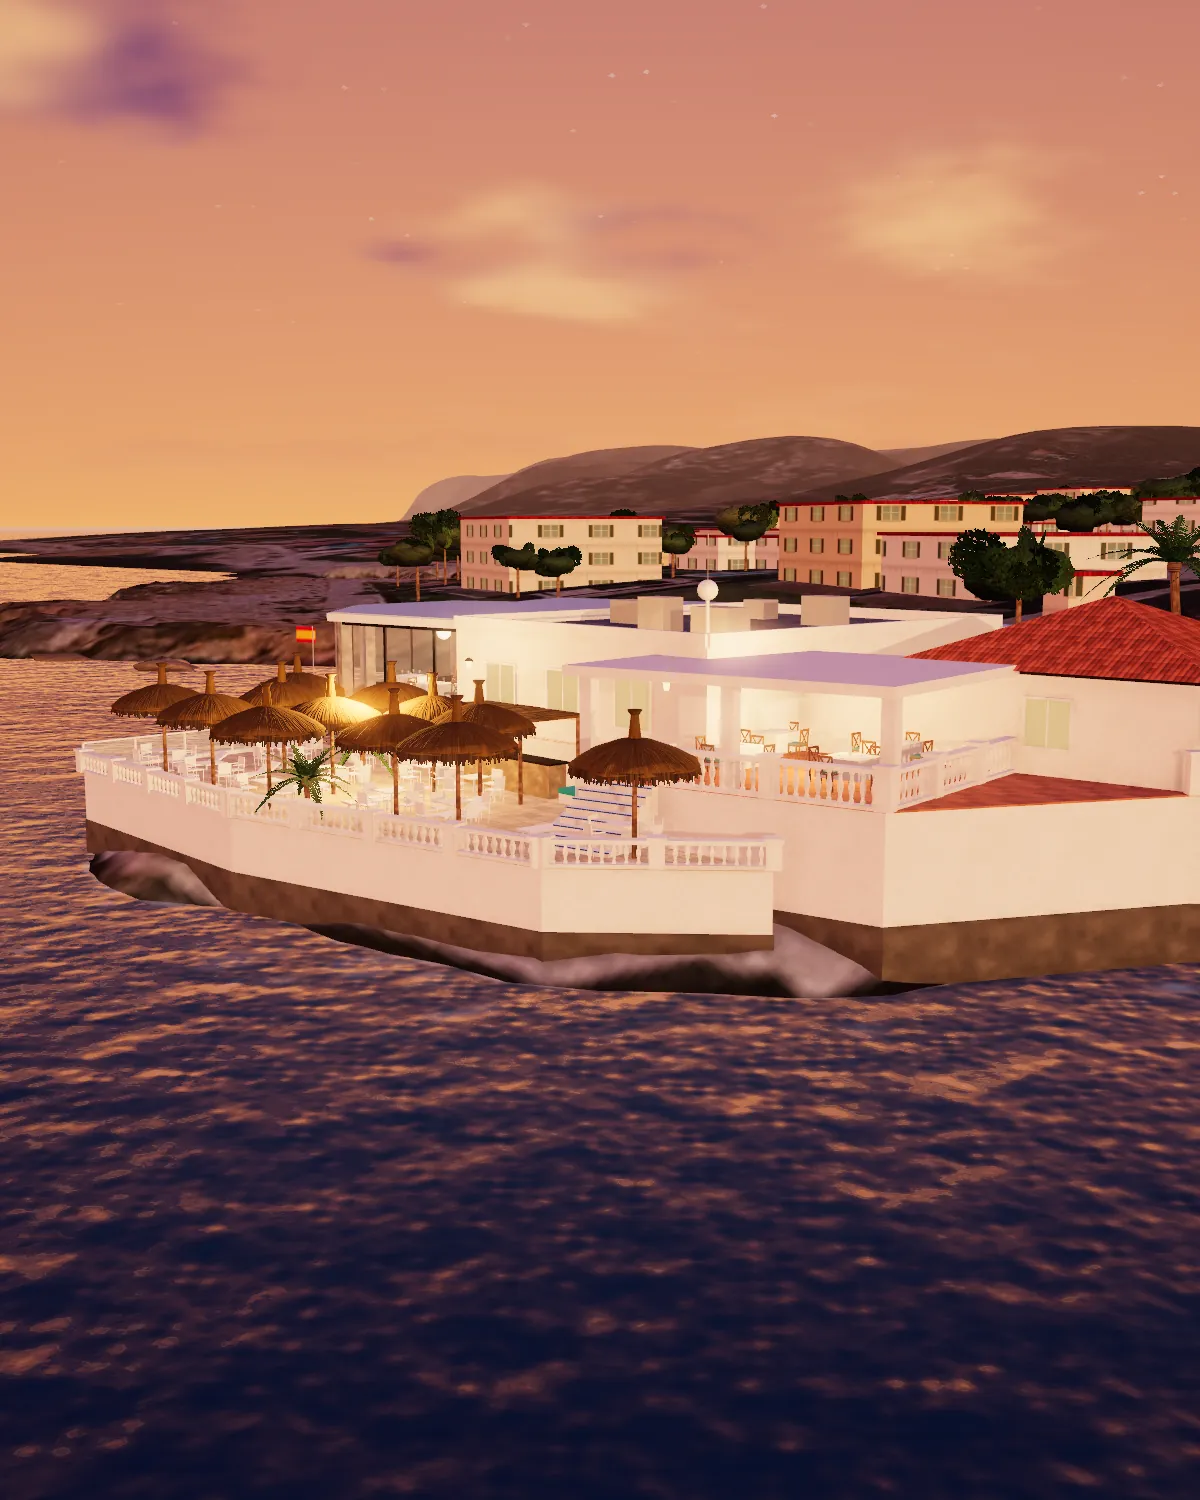
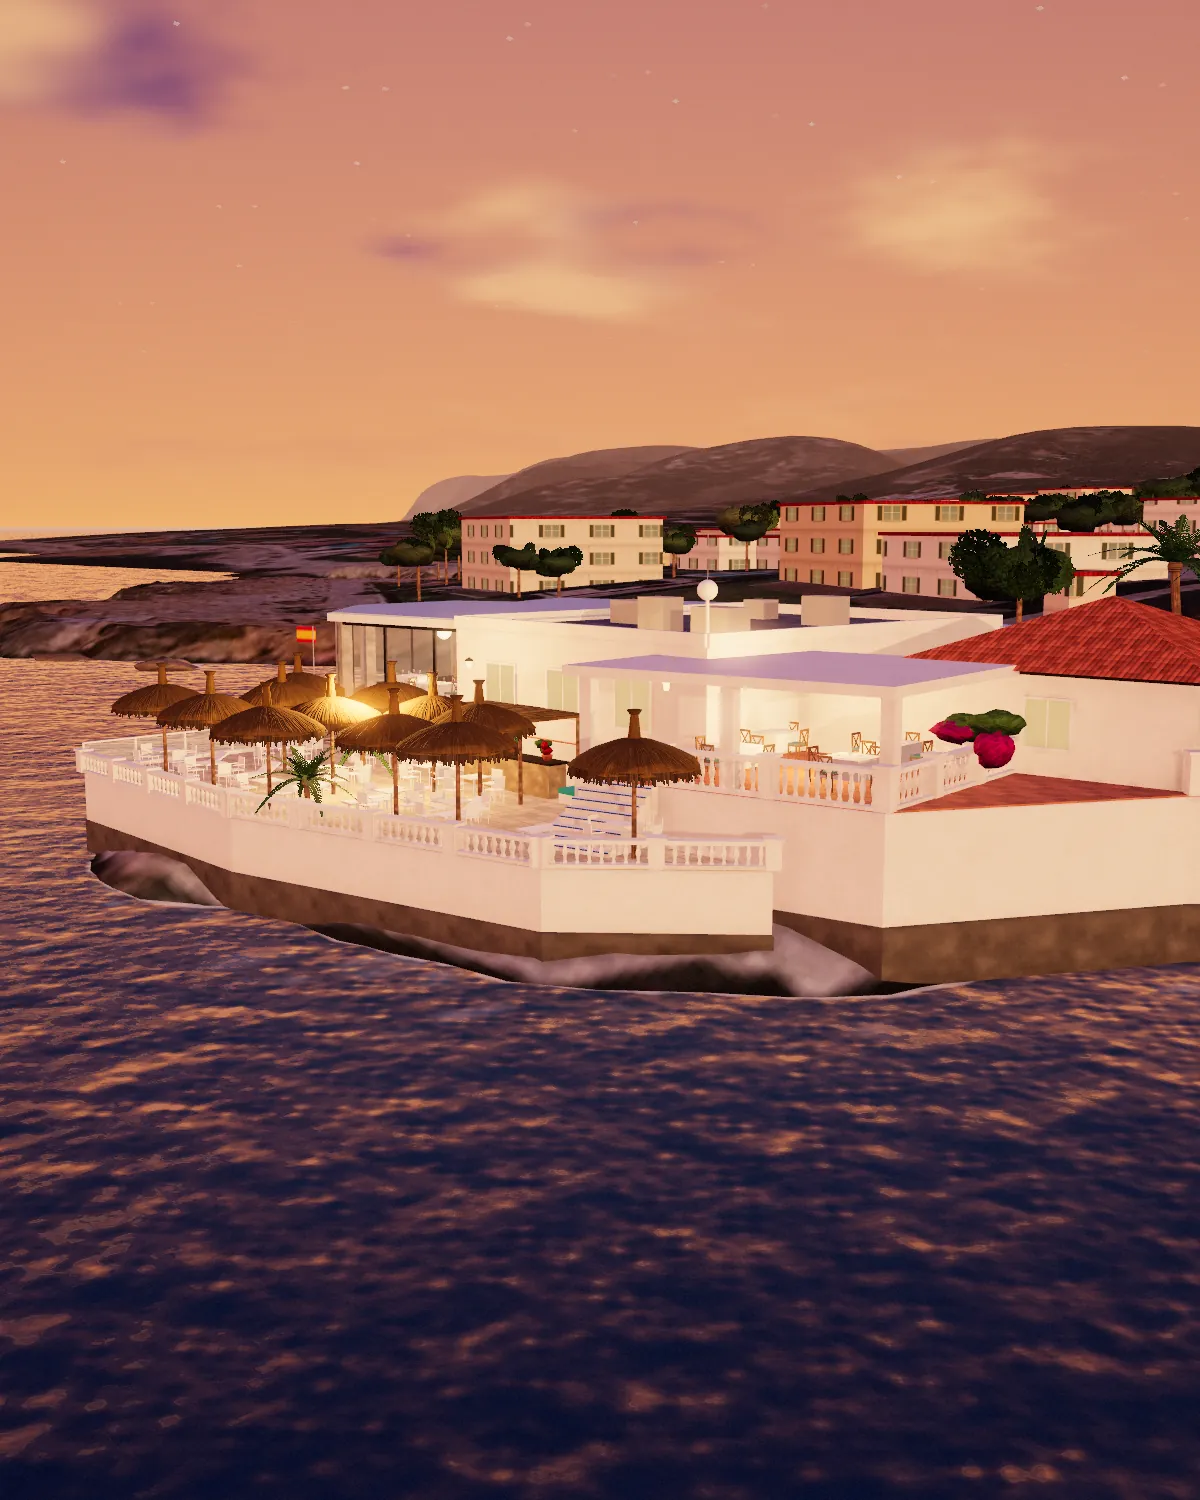
Add a realism pass to the El Pegolí 3D view
- Camera optics: depth of field on close viewpoints (table, dining room,
  terrace), fine film grain and a warm/cool photographic grade
- Weathered whitewash: damp blotches, drip streaks and a sea-splashed base
- Small bevels on the main volumes so edges catch the light
- Bougainvillea on the walls and geranium pots on the bar
- Regenerated cover image and screenshots

Claude-Session: https://claude.ai/code/session_01E5HN136emrn6kgKPQGTpSe

diff --git a/el-pegoli/lib/scene3d.js b/el-pegoli/lib/scene3d.js
@@ -90,12 +90,12 @@
   var VIEWS = {
     hero:    { pos: [-38, 12.5, -46], target: [7, 4, -7],     fov: 40, wide: true },
     llegada: { pos: [-8, 5.5, -50],   target: [8, 4.6, -9],   fov: 40, wide: true },
-    mesa:    { pos: [19.9, 5.5, 0.1], target: [18.3, 5.0, -1.8], fov: 46, look: true },
-    ocaso:   { pos: [20.7, 4.6, -17.7], target: [-30, 4.2, -21], fov: 58, look: true },
+    mesa:    { pos: [19.9, 5.5, 0.1], target: [18.3, 5.0, -1.8], fov: 46, look: true, focus: 2.4, ap: 0.95 },
+    ocaso:   { pos: [20.7, 4.6, -17.7], target: [-30, 4.2, -21], fov: 58, look: true, focus: 8, ap: 0.2 },
     general: { pos: [60, 27, -56],    target: [5, 3, -6],     fov: 40, wide: true },
     mar:     { pos: [9, 3.4, -66],    target: [8, 5, -8],     fov: 36, wide: true },
-    terraza: { pos: [0.9, 4.3, -16.3], target: [16, 3.8, -13.0], fov: 62, look: true },
-    comedor: { pos: [17.2, 5.75, 0.9], target: [16.8, 5.3, -20], fov: 62, look: true },
+    terraza: { pos: [0.9, 4.3, -16.3], target: [16, 3.8, -13.0], fov: 62, look: true, focus: 7, ap: 0.22 },
+    comedor: { pos: [17.2, 5.75, 0.9], target: [16.8, 5.3, -20], fov: 62, look: true, focus: 5, ap: 0.3 },
     cala:    { pos: [53, 3.2, 27],    target: [27, 3.8, 6],   fov: 40 },
     denia:   { pos: [-2.4, 4.5, -14.5], target: [-2610, 60, -951], fov: 24, look: true }
   };
@@ -495,6 +495,24 @@
     M.sueloInt.envMapIntensity = 0.5;
     M.mantel.envMapIntensity = 0.55;
     M.muroAzul = pbr({ color: 0xe6eff4, map: T.cal, normalMap: T.calN, normalScale: ns(0.8), roughness: 0.96 });
+    function weather(mat, amount) {
+      mat.onBeforeCompile = function (sh) {
+        sh.uniforms.uStain = { value: T.rock };
+        sh.vertexShader = "varying vec3 vWPos;\n" + sh.vertexShader.replace("#include <project_vertex>",
+          "#include <project_vertex>\n  #ifdef USE_INSTANCING\n  vWPos = (modelMatrix * instanceMatrix * vec4(transformed, 1.0)).xyz;\n  #else\n  vWPos = (modelMatrix * vec4(transformed, 1.0)).xyz;\n  #endif");
+        sh.fragmentShader = "varying vec3 vWPos; uniform sampler2D uStain;\n" + sh.fragmentShader.replace("#include <map_fragment>",
+          "#include <map_fragment>\n" +
+          "  float wA = texture2D(uStain, vWPos.xz * 0.045 + vec2(vWPos.y * 0.021, 0.0)).r;\n" +
+          "  float wB = texture2D(uStain, vec2((vWPos.x + vWPos.z) * 0.55, vWPos.y * 0.035)).r;\n" +
+          "  float low = 1.0 - smoothstep(0.2, 2.0, vWPos.y);\n" +
+          "  float dirt = (1.0 - wA) * 0.2 + smoothstep(0.6, 0.2, wB) * 0.16 + low * 0.3;\n" +
+          "  diffuseColor.rgb *= mix(vec3(1.0), vec3(0.78, 0.74, 0.66), clamp(dirt * " + amount.toFixed(2) + ", 0.0, 1.0));");
+      };
+      mat.customProgramCacheKey = function () { return "cal" + amount; };
+    }
+    weather(M.cal, 1.35);
+    weather(M.muroAzul, 1.5);
+    weather(M.calLisa, 0.7);
 
     function mesh(geo, mat, x, y, z, parent, opts) {
       var m = new THREE.Mesh(geo, mat);
@@ -896,9 +914,13 @@
     }
     // prisma vertical sobre un polígono en planta, con UV en metros / tile
     function prismGeo(poly, y0, y1, tile) {
-      var g = new THREE.ExtrudeGeometry(shapeOf(poly), { depth: y1 - y0, bevelEnabled: false });
+      // un canto vivo perfecto delata el render: los volúmenes grandes llevan un pequeño bisel que recoge la luz
+      var bv = y1 - y0 > 0.6 ? 0.035 : 0;
+      var g = new THREE.ExtrudeGeometry(shapeOf(poly), bv
+        ? { depth: y1 - y0 - bv * 2, bevelEnabled: true, bevelThickness: bv, bevelSize: bv, bevelOffset: -bv, bevelSegments: 1 }
+        : { depth: y1 - y0, bevelEnabled: false });
       g.rotateX(-Math.PI / 2);
-      g.translate(0, y0, 0);
+      g.translate(0, y0 + bv, 0);
       var uv = g.attributes.uv, t = tile || 2.5;
       for (var i = 0; i < uv.count; i++) uv.setXY(i, uv.getX(i) / t, uv.getY(i) / t);
       return g;
@@ -1427,6 +1449,29 @@
       }
     })();
 
+    // buganvilla trepando por los muros y macetas con geranios
+    (function () {
+      var lobe = blob(2, 0.95, 2.4, 0.85, 0, 0.5);
+      var magenta = pbr({ color: 0xc4267c, map: T.fol, normalMap: T.folN, normalScale: ns(1.8), vertexColors: true, roughness: 0.85 });
+      var rojo = pbr({ color: 0xc8322a, map: T.fol, normalMap: T.folN, normalScale: ns(1.8), vertexColors: true, roughness: 0.85 });
+      function mata(x, y, z, sz, mat) {
+        for (var i = 0; i < 5; i++) {
+          var m = mesh(lobe, i % 2 === 0 ? M.verde : mat, x + (hash2(x + i, z) - 0.5) * sz * 1.5, y + (hash2(z, x + i) - 0.3) * sz * 1.1, z + (hash2(x - i, z + i) - 0.5) * sz * 0.7, resto);
+          m.scale.set(sz * (0.38 + hash2(i, x) * 0.3), sz * (0.3 + hash2(i, z) * 0.25), sz * (0.3 + hash2(x, i) * 0.25));
+          m.rotation.y = i * 1.9;
+        }
+      }
+      mata(-6.6, Y_UP + 1.7, 4.75, 1.5, magenta);   // pabellón de teja, hacia la calle
+      mata(5.1, Y_UP + 1.6, 9.1, 1.3, magenta);     // junto a la entrada
+      mata(-7.6, Y_UP + 1.4, -7.4, 1.0, magenta);   // costado del porche
+      mata(25.9, 4.9, 2.2, 1.1, magenta);           // sobre el muro de la cala
+      [[6.5, -9.75], [8.2, -9.9], [9.9, -9.75]].forEach(function (q) {
+        var pot = mesh(potGeo, M.barro, q[0], Y_PT + 1.17, q[1], resto);
+        pot.scale.setScalar(0.5);
+        mata(q[0], Y_PT + 1.5, q[1], 0.32, rojo);
+      });
+    })();
+
     /* ================= palmeras ================= */
     var palms = [];
     var palmDepth = new THREE.MeshDepthMaterial({ depthPacking: THREE.RGBADepthPacking, map: T.palma, alphaTest: 0.35 });
@@ -1577,6 +1622,7 @@
     // Dos maneras de mirar: orbitar alrededor del edificio, o girar la mirada desde un punto fijo.
     var camPos = new THREE.Vector3(), camTgt = new THREE.Vector3(), tmpV = new THREE.Vector3();
     var sph = { r: 50, theta: 0, phi: 1 }, goal = { r: 50, theta: 0, phi: 1 };
+    var dof = { f: 10, a: 0 }, dofGoal = { f: 10, a: 0 };
     var look = false, wide = true, fov = 40, fovGoal = 40, viewTween = null, mode = "hero", userTouched = false, scrollP = 0;
     var pointer = { x: 0, y: 0 }, pointerS = { x: 0, y: 0 };
     var offset = { x: 0, y: 0 }, offsetGoal = { x: 0, y: 0 };
@@ -1603,6 +1649,7 @@
       look = !!v.look;
       wide = !!v.wide;
       fov = fovGoal = v.fov;
+      dofGoal.a = v.ap || 0; dofGoal.f = v.focus || 10;
       var d = camPos.clone().sub(camTgt), r = d.length();
       sph.r = goal.r = r;
       sph.theta = goal.theta = Math.atan2(d.x, d.z);
@@ -1655,6 +1702,7 @@
         if (!reduced && !eco) camera.position.y += Math.sin(time * 0.35) * 0.04;
         camera.lookAt(tourTgt);
         fov = lerp(fov, lerp(va.fov, vb.fov, e2), kt);
+        dofGoal.a = lerp(va.ap || 0, vb.ap || 0, e2); dofGoal.f = lerp(va.focus || 10, vb.focus || 10, e2);
         if (tourFrames > 0) tourFrames--;
       } else if (viewTween) {
         viewTween.t = Math.min(1, viewTween.t + dt / viewTween.dur);
@@ -1666,6 +1714,7 @@
         tmpV.set(lerp(viewTween.tgt.x, v.target[0], e), lerp(viewTween.tgt.y, v.target[1], e), lerp(viewTween.tgt.z, v.target[2], e));
         camera.lookAt(tmpV);
         fov = lerp(viewTween.fov, v.fov, e);
+        dofGoal.a = (v.ap || 0) * e; dofGoal.f = v.focus || 10;
         if (viewTween.t >= 1) { applyView(viewTween.name); viewTween = null; }
       } else {
         if (mode === "explore" && !look && !userTouched && !reduced && !eco) goal.theta += dt * 0.03;
@@ -1699,6 +1748,7 @@
       }
       offset.x = lerp(offset.x, offsetGoal.x, k * 0.6);
       offset.y = lerp(offset.y, offsetGoal.y, k * 0.6);
+      dof.a = lerp(dof.a, dofGoal.a, k); dof.f = lerp(dof.f, dofGoal.f, k);
       camera.fov = fov;
       if (Math.abs(offset.x) > 0.001 || Math.abs(offset.y) > 0.001) camera.setViewOffset(size.w, size.h, -offset.x * size.w, offset.y * size.h, size.w, size.h);
       else camera.clearViewOffset();
@@ -1719,6 +1769,8 @@
       var aoRT = new THREE.WebGLRenderTarget(4, 4, { depthBuffer: false });
       var bA = new THREE.WebGLRenderTarget(4, 4, { type: THREE.HalfFloatType, depthBuffer: false });
       var bB = new THREE.WebGLRenderTarget(4, 4, { type: THREE.HalfFloatType, depthBuffer: false });
+      var cA = new THREE.WebGLRenderTarget(4, 4, { type: THREE.HalfFloatType, depthBuffer: false });
+      var cB = new THREE.WebGLRenderTarget(4, 4, { type: THREE.HalfFloatType, depthBuffer: false });
       var VS = "varying vec2 vUv; void main(){ vUv = uv; gl_Position = vec4(position.xy, 0.0, 1.0); }";
       var DEPTH = "uniform sampler2D tDepth; uniform mat4 uInvProj;\nvec3 viewPos(vec2 uv){ float d = texture2D(tDepth, uv).x; vec4 v = uInvProj * vec4(uv * 2.0 - 1.0, d * 2.0 - 1.0, 1.0); return v.xyz / v.w; }";
       function pass(uniforms, lines) {
@@ -1767,6 +1819,14 @@
         "  gl_FragColor = vec4(min(c * smoothstep(1.5, 3.0, l), vec3(14.0)), 1.0);",
         "}"
       ]);
+      var down = pass({ tColor: { value: rt.texture }, uTexel: { value: new THREE.Vector2() } }, [
+        "uniform sampler2D tColor; uniform vec2 uTexel; varying vec2 vUv;",
+        "void main(){",
+        "  vec3 c = texture2D(tColor, vUv + uTexel * vec2(-1.0, -1.0)).rgb + texture2D(tColor, vUv + uTexel * vec2(1.0, -1.0)).rgb",
+        "         + texture2D(tColor, vUv + uTexel * vec2(-1.0, 1.0)).rgb + texture2D(tColor, vUv + uTexel * vec2(1.0, 1.0)).rgb;",
+        "  gl_FragColor = vec4(min(c * 0.25, vec3(6.0)), 1.0);",
+        "}"
+      ]);
       var blur = pass({ tSrc: { value: null }, uDir: { value: new THREE.Vector2() } }, [
         "uniform sampler2D tSrc; uniform vec2 uDir; varying vec2 vUv;",
         "void main(){",
@@ -1778,8 +1838,8 @@
         "  gl_FragColor = vec4(c, 1.0);",
         "}"
       ]);
-      var comp = pass({ tColor: { value: rt.texture }, tAO: { value: aoRT.texture }, tBloom: { value: bA.texture }, tDepth: depth, uInvProj: invProj, uAoTexel: { value: new THREE.Vector2() }, uBloom: { value: 0.3 } }, [
-        "uniform sampler2D tColor; uniform sampler2D tAO; uniform sampler2D tBloom; uniform vec2 uAoTexel; uniform float uBloom; varying vec2 vUv;",
+      var comp = pass({ tColor: { value: rt.texture }, tAO: { value: aoRT.texture }, tBloom: { value: bA.texture }, tDepth: depth, uInvProj: invProj, uAoTexel: { value: new THREE.Vector2() }, uBloom: { value: 0.3 }, tBlur: { value: cA.texture }, uFocus: { value: 10 }, uAperture: { value: 0 }, uSeed: { value: 0 } }, [
+        "uniform sampler2D tColor; uniform sampler2D tAO; uniform sampler2D tBloom; uniform sampler2D tBlur; uniform vec2 uAoTexel; uniform float uBloom; uniform float uFocus; uniform float uAperture; uniform float uSeed; varying vec2 vUv;",
         DEPTH,
         "void main(){",
         "  vec3 col = texture2D(tColor, vUv).rgb;",
@@ -1791,10 +1851,16 @@
         "    float wt = 1.0 / (1.0 + abs(z - z0) / max(-z0, 0.5) * 70.0);",
         "    sum += texture2D(tAO, vUv + o).r * wt; w += wt;",
         "  } }",
-        "  col *= mix(1.0, sum / w, 0.92);",
+        // profundidad de campo: lo que queda lejos del plano enfocado se funde con una copia desenfocada
+        "  float coc = smoothstep(0.08, 1.0, clamp(abs(-z0 - uFocus) / max(uFocus, 0.5) * uAperture, 0.0, 1.0));",
+        "  col = mix(col, texture2D(tBlur, vUv).rgb, coc);",
+        "  col *= mix(1.0, sum / w, 0.92 * (1.0 - coc * 0.6));",
         "  col += texture2D(tBloom, vUv).rgb * uBloom;",
         "  float l = dot(col, vec3(0.2126, 0.7152, 0.0722));",
-        "  col = mix(vec3(l), col, 1.05);",
+        "  col = mix(vec3(l), col, 1.04);",
+        // sombras algo frías y luces algo cálidas, como en una foto al sol; y un grano muy fino
+        "  col *= mix(vec3(0.965, 0.99, 1.035), vec3(1.03, 1.0, 0.955), smoothstep(0.0, 1.1, l));",
+        "  col += (fract(sin(dot(gl_FragCoord.xy + uSeed, vec2(12.9898, 78.233))) * 43758.5453) - 0.5) * 0.022 * (0.35 + l);",
         "  vec2 q = vUv - 0.5;",
         "  col *= 1.0 - dot(q, q) * 0.2;",
         "  gl_FragColor = vec4(col, 1.0);",
@@ -1806,7 +1872,7 @@
       quad.frustumCulled = false;
       var ps = new THREE.Scene();
       ps.add(quad);
-      post = { rt: rt, aoRT: aoRT, bA: bA, bB: bB, ao: ao, bright: bright, blur: blur, comp: comp, quad: quad, scene: ps, cam: new THREE.Camera(), size: new THREE.Vector2(), invProj: invProj };
+      post = { rt: rt, aoRT: aoRT, bA: bA, bB: bB, cA: cA, cB: cB, down: down, ao: ao, bright: bright, blur: blur, comp: comp, quad: quad, scene: ps, cam: new THREE.Camera(), size: new THREE.Vector2(), invProj: invProj };
     })();
     function renderScene() {
       if (post && quality.level === 0) {
@@ -1818,6 +1884,8 @@
             P.aoRT.setSize(Math.ceil(s.x / 2), Math.ceil(s.y / 2));
             P.bA.setSize(Math.ceil(s.x / 4), Math.ceil(s.y / 4));
             P.bB.setSize(Math.ceil(s.x / 4), Math.ceil(s.y / 4));
+            P.cA.setSize(Math.ceil(s.x / 4), Math.ceil(s.y / 4));
+            P.cB.setSize(Math.ceil(s.x / 4), Math.ceil(s.y / 4));
           }
           renderer.setRenderTarget(P.rt);
           if (!P.checked) {
@@ -1846,6 +1914,24 @@
           P.blur.uniforms.uDir.value.set(0, 1 / P.bA.height);
           renderer.setRenderTarget(P.bA);
           renderer.render(P.scene, P.cam);
+          if (dof.a > 0.01) {
+            P.down.uniforms.uTexel.value.set(1 / s.x, 1 / s.y);
+            P.quad.material = P.down;
+            renderer.setRenderTarget(P.cA);
+            renderer.render(P.scene, P.cam);
+            P.quad.material = P.blur;
+            P.blur.uniforms.tSrc.value = P.cA.texture;
+            P.blur.uniforms.uDir.value.set(0.8 / P.cA.width, 0);
+            renderer.setRenderTarget(P.cB);
+            renderer.render(P.scene, P.cam);
+            P.blur.uniforms.tSrc.value = P.cB.texture;
+            P.blur.uniforms.uDir.value.set(0, 0.8 / P.cA.height);
+            renderer.setRenderTarget(P.cA);
+            renderer.render(P.scene, P.cam);
+          }
+          P.comp.uniforms.uFocus.value = dof.f;
+          P.comp.uniforms.uAperture.value = dof.a;
+          P.comp.uniforms.uSeed.value = (frames % 61) * 1.37;
           P.comp.uniforms.uAoTexel.value.set(1 / P.aoRT.width, 1 / P.aoRT.height);
           P.comp.uniforms.uBloom.value = 0.28 + cur.lamps * 0.3;
           P.quad.material = P.comp;
